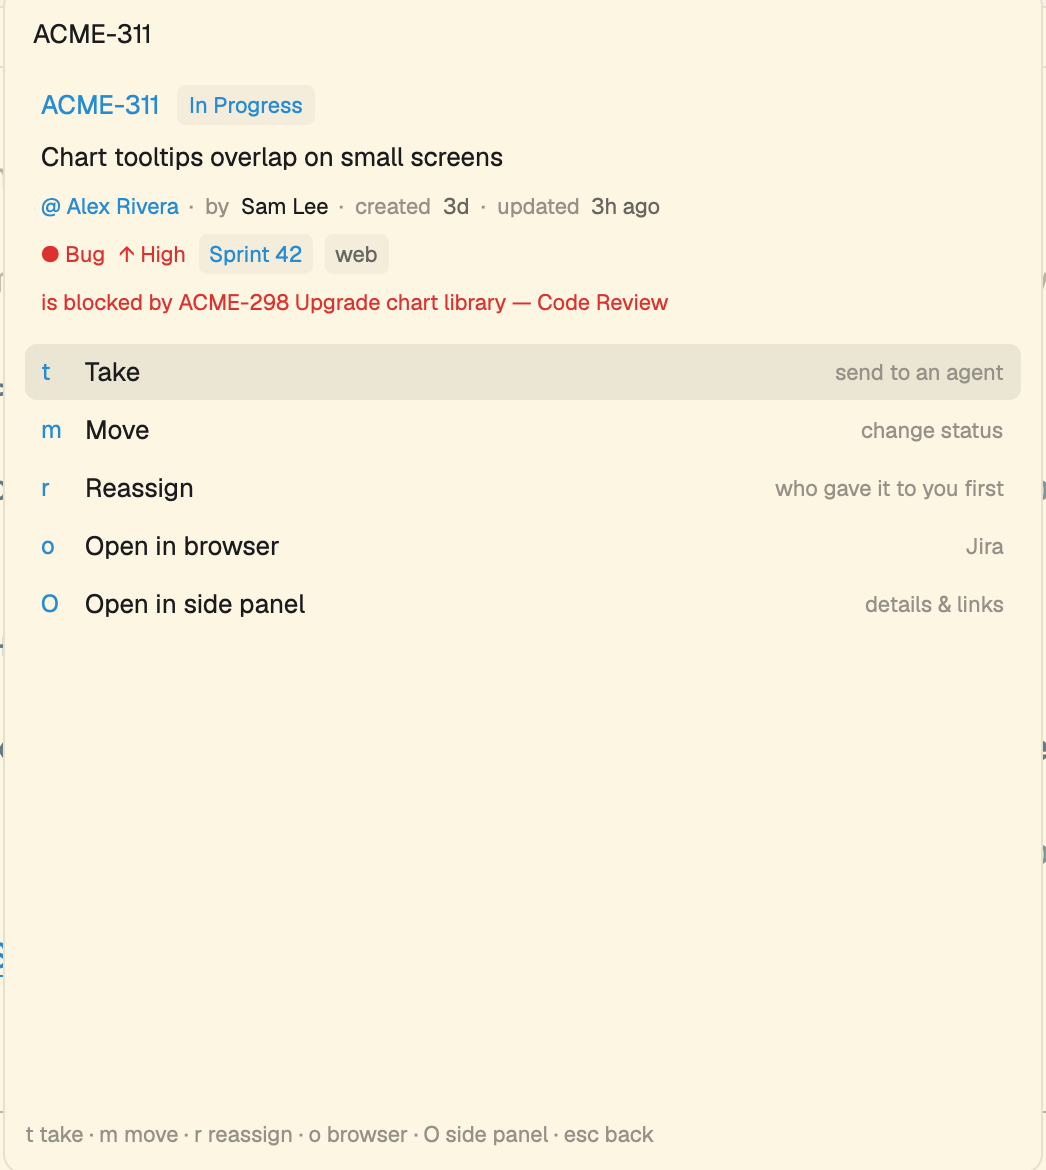
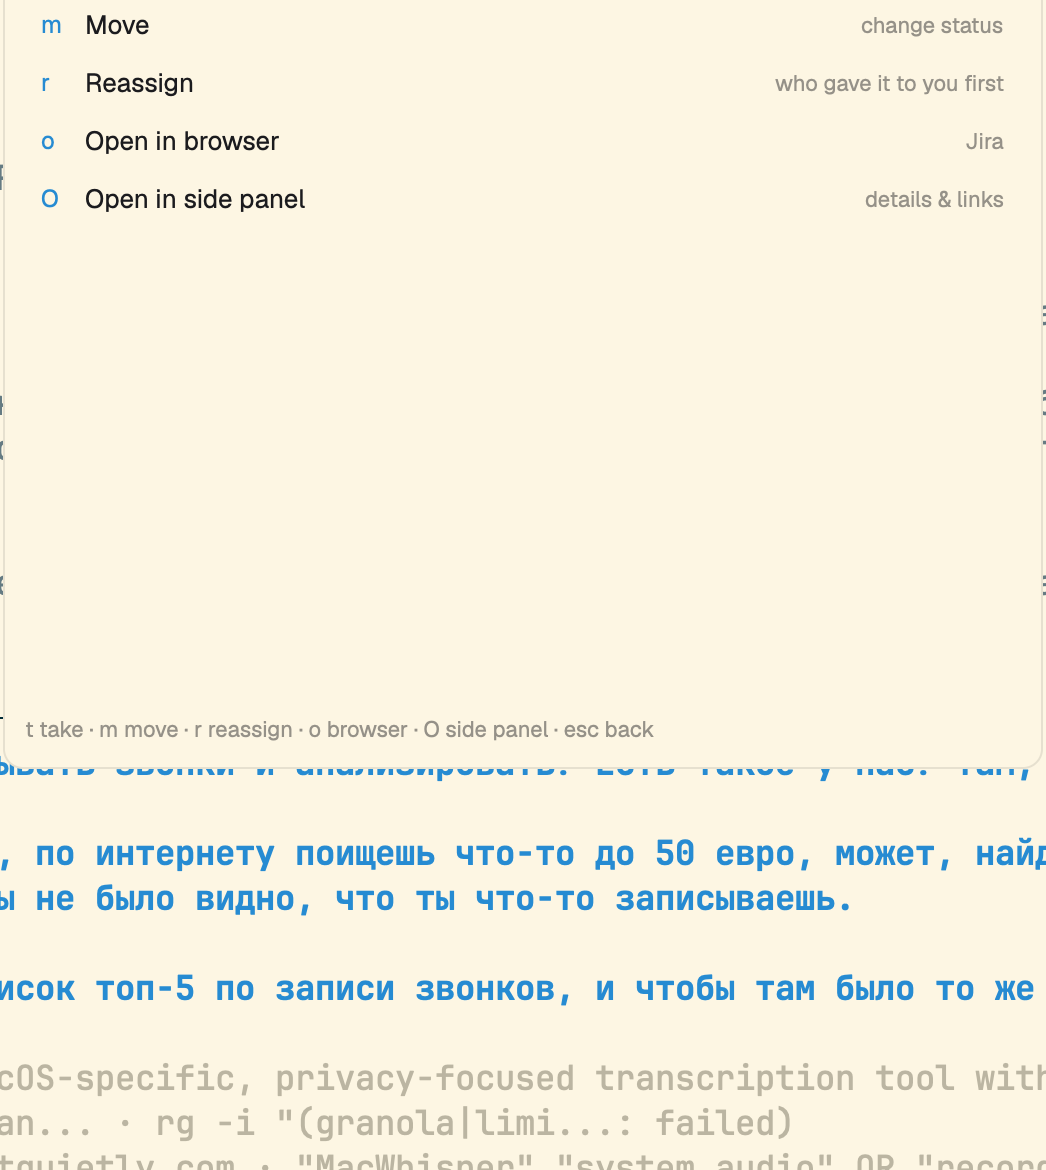
feat(jira): paste context without submitting and add c hotkey to issue card

diff --git a/mod/jira/sidePanelEditHelpers.js b/mod/jira/sidePanelEditHelpers.js
@@ -1,10 +1,11 @@
 // Actions and keyboard handling for Jira side panel inline editing.
-import { agents, hc, knownAgents, notify, run, spaces } from "herdr";
+import { agents, knownAgents, notify, run, spaces } from "herdr";
 import { latin } from "../pickerKeyHelpers.js";
 import { workFolder } from "../folderHelpers.js";
 import { agentPrompt } from "./jiraFormatHelpers.js";
 import { refreshBarCounters } from "./counterBarView.js";
 import { parseDateInput } from "./sidePanelDateHelpers.js";
+import { copyToClipboard, pasteContextToAgent } from "./agentDraftHelpers.js";
 
 export { formatIsoDate, quickDateOptions, parseDateInput } from "./sidePanelDateHelpers.js";
 export { detailsRows, inlineEditorView, issueBody, issueTopBadges } from "./sidePanelEditUiHelpers.js";
@@ -15,7 +16,8 @@ export { detailsRows, inlineEditorView, issueBody, issueTopBadges } from "./side
 /** @typedef {import("../types.js").KeyEvent} KeyEvent */
 /** @typedef {import("./sidePanelView.js").PanelView} PanelView */
 /** @typedef {import("./jiraDataSource.js").Transition} Transition */
-/** @typedef {{ label: string, hint?: string, agent?: any, address?: string, name?: string }} AgentOption */
+/** @typedef {Awaited<ReturnType<typeof knownAgents>>[number]} KnownAgent */
+/** @typedef {{ label: string, hint?: string, agent?: KnownAgent, address?: string, pane?: string, agentInfo?: import("herdr").AgentInfo, name?: string }} AgentOption */
 
 /** @param {PanelView} p @param {Cx} cx */
 export const closeEditor = (p, cx) => (Object.assign(p, { editMode: null, editQuery: "", editIndex: 0 }), cx.notify());
@@ -33,13 +35,15 @@ export function openEditor(p, mode, cx) {
   } else if (mode === "context") {
     Object.assign(p, { agentOptions: [], agentLoading: true });
     cx.spawn(async (cx) => {
-      const live = agents()[0];
+      const live = agents().find((a) => a.focused) ?? agents()[0] ?? null;
       const liveOpt = live
         ? [
             {
               label: `Current pane · ${live.program?.name ?? live.app ?? "agent"}`,
-              hint: "send task to active agent",
+              hint: "paste context into prompt without sending",
               address: live.address,
+              pane: live.pane,
+              agentInfo: live,
               name: live.program?.name ?? live.app ?? "agent",
             },
           ]
@@ -113,17 +117,46 @@ export function sendToAgent(p, opt, cx) {
   const task = agentPrompt(p.data);
   const key = p.key ?? p.data.key;
   cx.spawn(async (cx) => {
-    if (opt.address) {
-      const r = await hc(["send", opt.address, task]);
-      if (r.code !== 0) throw new Error(r.stderr?.trim() || "hc send failed");
-      notify({ title: "Jira", body: `Sent ${key} to ${opt.name}`, level: "info" });
+    if (opt.address || opt.agentInfo) {
+      await pasteContextToAgent({
+        target: opt.agentInfo ?? { address: opt.address, pane: opt.pane },
+        text: task,
+        key,
+        name: opt.name,
+      });
     } else if (opt.agent) {
       const folder = (await workFolder(null)) ?? spaces().find((x) => x.active)?.folder ?? null;
-      run("tab.new", { name: key, argv: opt.agent.run, task, ...(folder ? { folder } : {}) });
-      notify({ title: "Jira", body: `Started ${opt.agent.name} for ${key}`, level: "info" });
+      await copyToClipboard(task);
+      run("tab.new", { name: key, argv: opt.agent.run, ...(folder ? { folder } : {}) });
+      notify({
+        title: "Jira",
+        body: `Started ${opt.agent.name} for ${key} (context in clipboard)`,
+        level: "info",
+      });
     }
     closeEditor(p, cx);
   });
+}
+
+/** @param {PanelView} p @param {Cx} cx */
+export function applyContext(p, cx) {
+  if (!p.data) return;
+  const live = agents().find((a) => a.focused) ?? agents()[0] ?? null;
+  if (live) {
+    const task = agentPrompt(p.data);
+    const key = p.key ?? p.data.key;
+    cx.spawn(async (cx) => {
+      await pasteContextToAgent({
+        target: live,
+        text: task,
+        key,
+        name: live.program?.name ?? live.app ?? null,
+      });
+      closeEditor(p, cx);
+    });
+  } else {
+    openEditor(p, "context", cx);
+  }
 }
 
 /** @param {PanelView} p @param {string} q @param {Cx} cx */

diff --git a/mod/jira/agentDraftHelpers.js b/mod/jira/agentDraftHelpers.js
@@ -1,0 +1,60 @@
+// Puts issue context into an agent's input line without submitting (no Enter),
+// so the user can review and keep typing before sending.
+import { agents, exec, notify, run } from "herdr";
+
+/**
+ * Copies plain text to the macOS clipboard via pbcopy.
+ * @param {string} text
+ */
+export async function copyToClipboard(text) {
+  const r = await exec("sh", ["-c", 'printf %s "$1" | pbcopy', "sh", text]).catch(() => null);
+  if (!r || r.code !== 0) throw new Error(r?.stderr?.trim() || "pbcopy failed");
+}
+
+/**
+ * Pastes context into the active or specified agent terminal without pressing Enter.
+ * Focuses the target pane, triggers terminal.paste, and notifies the user.
+ * If no agent is running, leaves the text in the clipboard.
+ *
+ * @param {{
+ *   target?: import("herdr").AgentInfo | { pane?: string, address?: string } | null,
+ *   text: string,
+ *   key?: string | null,
+ *   name?: string | null,
+ * }} opts
+ */
+export async function pasteContextToAgent({ target = null, text, key = null, name = null }) {
+  await copyToClipboard(text);
+
+  const live =
+    (target && "pane" in target && target.pane ? target : null) ??
+    agents().find((a) => a.focused) ??
+    agents()[0] ??
+    null;
+  const info = live && "program" in live ? /** @type {import("herdr").AgentInfo} */ (live) : null;
+  const agentName = name ?? info?.program?.name ?? info?.app ?? "agent";
+  const issueKey = key ?? "Issue";
+
+  if (live) {
+    if (live.pane) run("pane.focus", { pane: live.pane });
+    else if (live.address) run("pane.focus", { terminal: live.address });
+    // Brief yield to allow the focus event to settle in GPUI before paste
+    await exec("sleep", ["0.05"]).catch(() => null);
+    run("terminal.paste");
+    notify({
+      title: "Jira",
+      body: `Pasted ${issueKey} context into ${agentName}`,
+      level: "info",
+    });
+    return true;
+  }
+
+  notify({
+    title: "Jira",
+    body: `Copied ${issueKey} context to clipboard (no active agent)`,
+    level: "info",
+  });
+  return false;
+}
+
+export const pasteDraft = pasteContextToAgent;

diff --git a/mod/jira/issueActionSteps.js b/mod/jira/issueActionSteps.js
@@ -1,9 +1,10 @@
 // What the Jira card's keys do. Each function works on the screen (`s`) and its source (`s.jira`):
 // it sets s.busy while loading, then moves to the next step or closes.
-import { exec, hc, knownAgents, notify, run, setShared, spaces } from "herdr";
+import { agents, exec, hc, knownAgents, notify, run, setShared, spaces } from "herdr";
 import { workFolder } from "../folderHelpers.js";
 import { agentPrompt } from "./jiraFormatHelpers.js";
 import { refreshBarCounters } from "./counterBarView.js";
+import { pasteContextToAgent } from "./agentDraftHelpers.js";
 
 /** @typedef {import("../types.js").Cx} Cx */
 /** @typedef {import("../types.js").Person} Person */
@@ -31,6 +32,30 @@ async function step(s, cx, busy, work) {
   }
   s.busy = null;
   cx.notify();
+}
+
+/**
+ * Pastes issue context into the active agent's input line without submitting (no Enter).
+ * @param {JiraScreen} s
+ * @param {Cx} cx
+ */
+export function addContext(s, cx) {
+  step(s, cx, `Adding ${s.picked.key} context…`, async () => {
+    if (s.jira.demo) return s.close();
+    const full =
+      s.picked.description !== undefined
+        ? s.picked
+        : { ...s.picked, ...(await s.jira.issue(s.picked.key).catch(() => ({}))) };
+    const task = agentPrompt(full);
+    const target = s.here ?? agents().find((a) => a.focused) ?? agents()[0] ?? null;
+    await pasteContextToAgent({
+      target,
+      text: task,
+      key: s.picked.key,
+      name: target?.program?.name ?? target?.app ?? null,
+    });
+    s.close();
+  });
 }
 
 /**

diff --git a/mod/jira/sidePanelEditUiHelpers.js b/mod/jira/sidePanelEditUiHelpers.js
@@ -8,6 +8,7 @@ import { attachmentList, checklistView, customFields, fact, linkRow, richText, s
 import { commentRow } from "./commentReactionHelpers.js";
 import {
   applyAssign,
+  applyContext,
   applyField,
   applyTransition,
   closeEditor,
@@ -103,7 +104,7 @@ export function inlineEditorView(t, p) {
   }
   if (p.editMode === "context") {
     return box
-      .child(editHeader(t, p, "SEND ISSUE TO AGENT"))
+      .child(editHeader(t, p, "ADD CONTEXT TO AGENT"))
       .when(p.agentLoading, (e) => e.child(div().text_size(12).text_color(t.dim).child("Finding agents…")))
       .when(!p.agentLoading && !p.agentOptions.length, (e) =>
         e.child(div().text_size(12).text_color(t.dim).child("No agents found")),
@@ -170,7 +171,7 @@ export function issueTopBadges(t, p, i) {
     .font_semibold()
     .text_color(t.accent)
     .hover((e) => e.bg(t.selected))
-    .on_click((_e, cx) => openEditor(p, "context", cx))
+    .on_click((_e, cx) => applyContext(p, cx))
     .child("+ Context");
   return h_flex()
     .gap(6)

diff --git a/mod/jira/issueCardHelpers.js b/mod/jira/issueCardHelpers.js
@@ -202,7 +202,7 @@ export function preview(t, issue) {
 export const FOOTERS = {
   mode: "pick a list · / search, /1307 any issue · esc close",
   issues: "1-9 a-z open · / search, /1307 any issue · ↑↓ ctrl-j k · esc back",
-  card: "t take · m move · r reassign · o browser · O side panel · esc back",
+  card: "c context · t take · m move · r reassign · o browser · O side panel · esc back",
   assign: "1-9 pick · / search people · esc keep",
 };
 
@@ -238,6 +238,7 @@ export function modeRows(s) {
  * @returns {Row[]}
  */
 export const cardRows = (s) => [
+  { key: "c", label: "Context", hint: "paste to active agent", act: (cx) => steps.addContext(s, cx) },
   { key: "t", label: "Take", hint: "send to an agent", act: (cx) => steps.loadAgents(s, cx) },
   { key: "m", label: "Move", hint: "change status", act: (cx) => steps.loadTransitions(s, cx) },
   { key: "r", label: "Reassign", hint: "who gave it to you first", act: (cx) => steps.toAssign(s, cx) },

diff --git a/tests/jiraPanel.test.js b/tests/jiraPanel.test.js
@@ -7,6 +7,7 @@ import {
   customFieldsFrom,
   splitImages,
 } from "../mod/jira/jiraFormatHelpers.js";
+import { FOOTERS, cardRows } from "../mod/jira/issueCardHelpers.js";
 
 test("adfText marks images by file name", () => {
   const doc = {
@@ -68,4 +69,16 @@ test("checklistFrom: done state and counts", () => {
   });
   assert.equal(c.done, true);
   assert.equal(c.summary, "update fix");
+});
+
+test("cardRows contains context action with key c", () => {
+  const rows = cardRows(/** @type {import("../mod/jira/jiraScreen.js").JiraScreen} */ ({}));
+  const row = rows.find((r) => r.key === "c");
+  assert.ok(row);
+  assert.equal(row.label, "Context");
+  assert.equal(row.hint, "paste to active agent");
+});
+
+test("FOOTERS.card contains c context", () => {
+  assert.match(FOOTERS.card, /c context/);
 });

diff --git a/README.md b/README.md
@@ -140,6 +140,7 @@ Picking an issue displays its card preview: semantic status pill, priority icon 
 
 | Key | What |
 |---|---|
+| `c` | **Context**: paste issue context into the active agent's input line without submitting (no Enter), so you can review and keep typing before sending |
 | `t` | **Take**: start an agent (a new tab with any installed agent, or the agent in your pane) with the issue text: analyze it, find the repo, update the main branch, create a branch by the project's rules (AGENTS.md / CLAUDE.md / `.claude/commands`, else like existing branches), plan before coding |
 | `m` | **Move**: change status (only the transitions Jira allows), then offers Reassign |
 | `r` | **Reassign**: whoever handed it to you first (from the issue history), the reporter, or search |
@@ -152,7 +153,7 @@ Picking an issue displays its card preview: semantic status pill, priority icon 
 
 The **side panel** (`ctrl-a i` or `O` on any card) docks alongside your work:
 
-- **`+ Context` button** in the top badge row: sends the current issue's prompt (`agentPrompt`: key, summary, status, link, description, and branch instructions) directly to the active agent pane (`Current pane · <agent>`) or opens a new agent tab (`New tab · <agent>`) in the project work folder.
+- **`+ Context` button** in the top badge row: pastes the current issue's prompt (`agentPrompt`: key, summary, status, link, description, and branch instructions) directly into the active agent's prompt without submitting, or opens an inline picker to choose an agent / start a new tab with the context placed in the clipboard.
 - **Inline editing right in the side panel**:
   - Click the **Status badge** (`In Progress ▾`) to view and apply Jira transitions in place.
   - Click **`Assignee`** (`@ Name ✎`) in `Details` to reassign (with quick options for the person who handed the issue over, the reporter, or live user search).

diff --git a/AGENTS.md b/AGENTS.md
@@ -15,7 +15,7 @@ When a user asks to add or install this mod:
 3. Validate the mod using `herdr-app check ~/.config/herdr-app/mods/herdr-flow`.
 4. Layout blocks (snippets in `scripts/layout-snippets.json`):
    - `router` block: optional floating block, needed only if direct keys (e.g. `cmd-e` → `herdr-flow.nvim-zoom`) are desired;
-   - `jira-view` block: optional Jira side panel (`props: { view: "panel" }`) with inline editing and `+ Context` agent sender;
+   - `jira-view` block: optional Jira side panel (`props: { view: "panel" }`) with inline editing and `+ Context` agent drafter (pastes prompt without sending);
    - `jira-bar` block: optional top bar counters widget (`props: { view: "bar" }`) with live counts and toast notifications.
    Always ask the user before editing their active layout file.
 
@@ -67,7 +67,7 @@ to a layout without asking.
 ## Files
 
 - `mod/` — the mod (installed as `mods/herdr-flow`). `main.js` picks the screen from props.
-- `mod/jira/` — Jira integration: counter bar, menus, card preview, side panel (`jira-view`) with 👍 comment reactions, inline editing (`mod/jira/sidePanelEditHelpers.js`: status transitions, assignee picker, pinned date field editor, and `+ Context` agent sender), and configurable `fields` in `herdr-flow.jira.json`.
+- `mod/jira/` — Jira integration: counter bar, menus, card preview (`c Context` quick paste), side panel (`jira-view`) with 👍 comment reactions, inline editing (`mod/jira/sidePanelEditHelpers.js`: status transitions, assignee picker, pinned date field editor, and `+ Context` agent drafter), and configurable `fields` in `herdr-flow.jira.json`.
 - `tests/` — `node --test` for pure modules.
 - `scripts/install.sh` — install / update.
 - `NOTICE` — the leader screen is a fork of DanielFGray/herdr-config `mods/prefix` (Apache-2.0).
